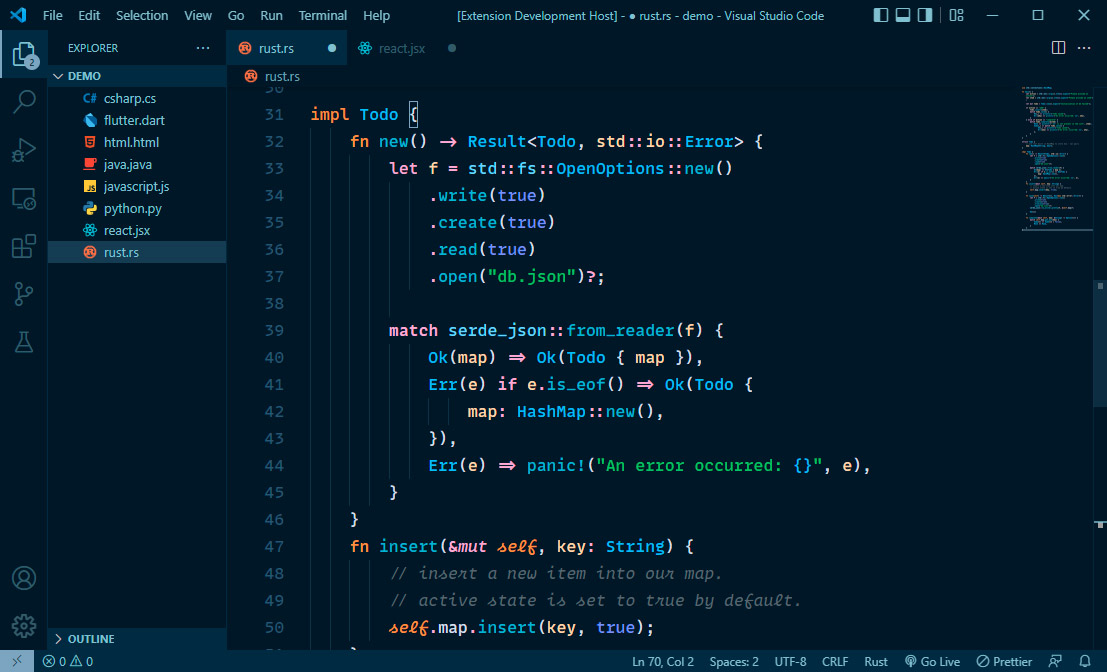
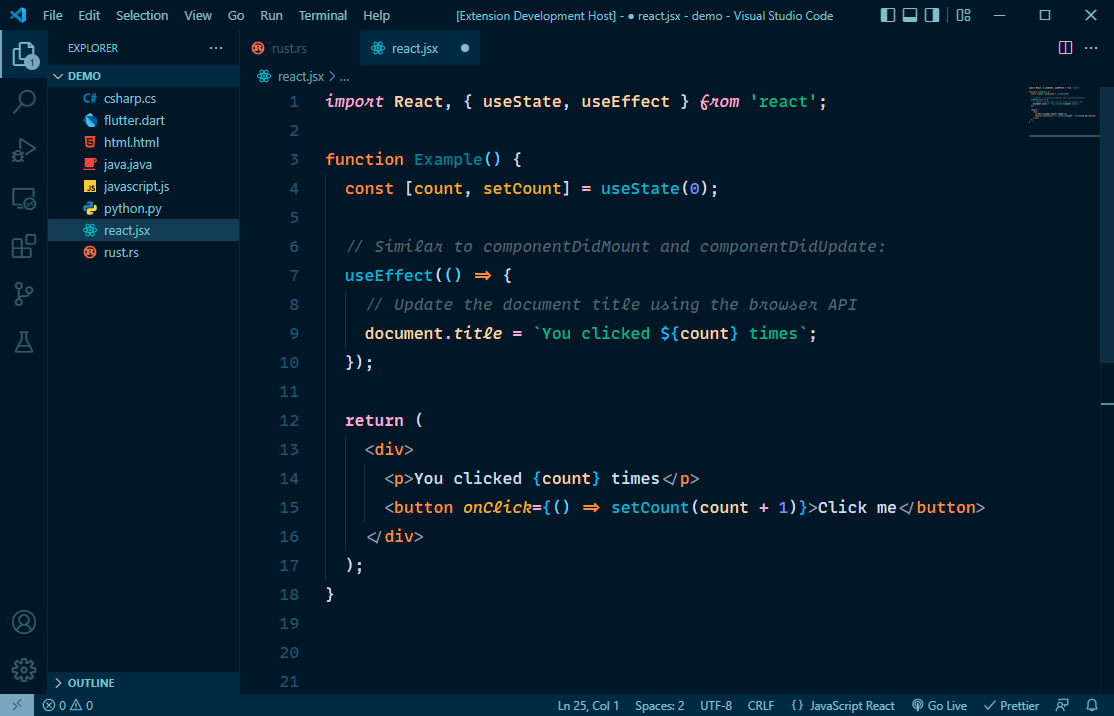
fix green syntax

diff --git a/CHANGELOG.md b/CHANGELOG.md
@@ -4,6 +4,10 @@ All notable changes to the "arctis" extension will be documented in this file.
 
 Check [Keep a Changelog](http://keepachangelog.com/) for recommendations on how to structure this file.
 
+## [1.5.1] - 04-29-2022
+
+- Fix green syntax. Ugh. Sorry if anyone has to keep re-installing updates, but I think it's finally done!
+
 ## [1.5.0] - 04-29-2022
 
 - Decided to increase the saturation of the syntax highlighting quite drastically to help readability. Colors were chosen from Tailwind's color library. In case people preferred the desaturated look from before, I created new Muted versions to be more in line with previous versions.
